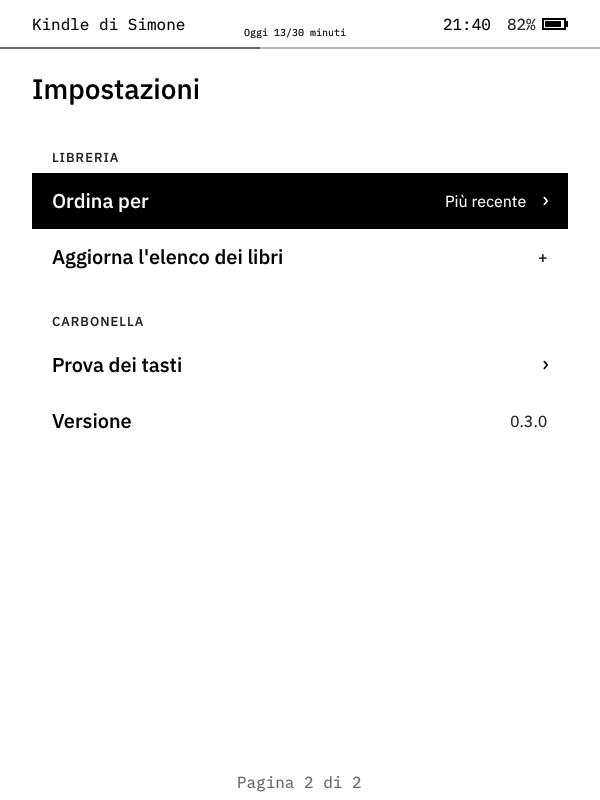
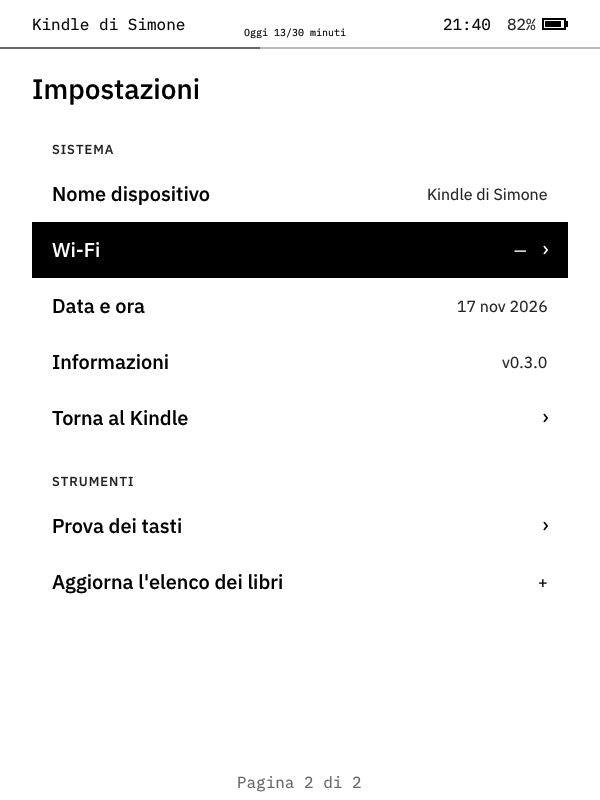
Speed up polylines, match settings page 2 to Figma (v0.3.1)
Claude-Session: https://claude.ai/code/session_017ad5J4fR8Z3br3R8tAxccF

diff --git a/src/app.c b/src/app.c
@@ -607,7 +607,7 @@ static void key_test(App *a);
 
 enum {
     S_GOAL, S_YEAR, S_FONT, S_SIZE, S_LINE, S_MARGIN, S_FLASH, S_VIEW, /* page 1, as in Figma */
-    S_SORT, S_RESCAN, S_KEYS, S_VERSION,                               /* page 2 */
+    S_NAME, S_WIFI, S_DATE, S_INFO, S_KINDLE, S_KEYS, S_RESCAN,        /* page 2 */
     S_N
 };
 
@@ -617,21 +617,48 @@ typedef struct {
 } SetItem;
 
 /* "04 · Impostazioni": header, title, groups (label + rows of 56 px), "Pagina 1 di 2" at the bottom.
- * Rows from the frame: LETTURA label at 149.6, rows from 173; ASPETTO label at 313, rows from 337. */
+ * Positions from the two frames: page 1 LETTURA label at 150, rows from 174; ASPETTO label at 314,
+ * rows from 338. Page 2 SISTEMA label at 142, rows from 166; then our own group STRUMENTI. */
 static const SetItem SET[S_N] = {
-    { 0, 150, 173, "Lettura", "Obiettivo giornaliero" },
-    { 0, 0, 229, NULL, "Libri da leggere quest'anno" },
-    { 0, 313, 337, "Aspetto", "Carattere" },
-    { 0, 0, 393, NULL, "Dimensione" },
-    { 0, 0, 449, NULL, "Interlinea" },
-    { 0, 0, 505, NULL, "Margini" },
-    { 0, 0, 561, NULL, "Refresh completo" },
-    { 0, 0, 617, NULL, "Visualizzazione" },
-    { 1, 150, 173, "Libreria", "Ordina per" },
-    { 1, 0, 229, NULL, "Aggiorna l'elenco dei libri" },
-    { 1, 313, 337, "Carbonella", "Prova dei tasti" },
-    { 1, 0, 393, NULL, "Versione" },
+    { 0, 150, 174, "Lettura", "Obiettivo giornaliero" },
+    { 0, 0, 230, NULL, "Libri da leggere quest'anno" },
+    { 0, 314, 338, "Aspetto", "Carattere" },
+    { 0, 0, 394, NULL, "Dimensione" },
+    { 0, 0, 450, NULL, "Interlinea" },
+    { 0, 0, 506, NULL, "Margini" },
+    { 0, 0, 562, NULL, "Refresh completo" },
+    { 0, 0, 618, NULL, "Visualizzazione" },
+    { 1, 142, 166, "Sistema", "Nome dispositivo" },
+    { 1, 0, 222, NULL, "Wi-Fi" },
+    { 1, 0, 278, NULL, "Data e ora" },
+    { 1, 0, 334, NULL, "Informazioni" },
+    { 1, 0, 390, NULL, "Torna al Kindle" },
+    { 1, 474, 498, "Strumenti", "Prova dei tasti" },
+    { 1, 0, 554, NULL, "Aggiorna l'elenco dei libri" },
 };
+
+/* Wi-Fi of the Kindle: -1 unknown (simulator), 0 off, 1 on. */
+static int wifi_state(void)
+{
+    if (g_sim)
+        return -1;
+    FILE *f = popen("lipc-get-prop com.lab126.cmd wirelessEnable 2>/dev/null", "r");
+    if (!f)
+        return -1;
+    int v = -1;
+    if (fscanf(f, "%d", &v) != 1)
+        v = -1;
+    pclose(f);
+    return v;
+}
+
+static void wifi_set(int on)
+{
+    if (g_sim)
+        return;
+    int r = system(on ? "lipc-set-prop com.lab126.cmd wirelessEnable 1" : "lipc-set-prop com.lab126.cmd wirelessEnable 0");
+    log_msg("wi-fi %s (%d)", on ? "on" : "off", r);
+}
 
 static void set_value(App *a, int i, char *out, size_t n)
 {
@@ -650,18 +677,33 @@ static void set_value(App *a, int i, char *out, size_t n)
             snprintf(out, n, "ogni %d pagine", a->flash_every);
         break;
     case S_VIEW: snprintf(out, n, "Copertine"); break;
-    case S_SORT: snprintf(out, n, "%s", SORTS[a->sort]); break;
-    case S_VERSION: snprintf(out, n, "%s", CARBONELLA_VERSION); break;
+    case S_NAME: snprintf(out, n, "%s", a->name); break;
+    case S_WIFI: {
+        int w = wifi_state();
+        snprintf(out, n, "%s", w < 0 ? "—" : w ? "Acceso" : "Spento");
+        break;
+    }
+    case S_DATE: {
+        static const char *MESI[] = { "gen", "feb", "mar", "apr", "mag", "giu",
+                                      "lug", "ago", "set", "ott", "nov", "dic" };
+        time_t now = time(NULL);
+        struct tm tm;
+        localtime_r(&now, &tm);
+        snprintf(out, n, "%d %s %d", tm.tm_mday, MESI[tm.tm_mon], tm.tm_year + 1900);
+        break;
+    }
+    case S_INFO: snprintf(out, n, "v%s", CARBONELLA_VERSION); break;
     default: break;
     }
 }
 
 static void set_row(App *a, int i, int focus)
 {
-    char v[48];
+    char v[160];
     set_value(a, i, v, sizeof v);
     ui_menu_row(&a->cv, 32, SET[i].row_top, a->W - 64, SET[i].label, v,
-                i == S_RESCAN ? ICON_PLUS : i == S_VERSION ? ICON_NONE : ICON_ARROW, focus);
+                i == S_RESCAN ? ICON_PLUS : i == S_NAME || i == S_DATE || i == S_INFO ? ICON_NONE : ICON_ARROW,
+                focus);
 }
 
 /* Change a setting by one step (dir +1 / -1). Returns 1 if the reading page must be laid out again. */
@@ -674,7 +716,12 @@ static int set_change(App *a, int i, int dir)
     case S_LINE: a->lp.line_pct = step(LINES, NLINES, a->lp.line_pct, dir); break;
     case S_MARGIN: a->lp.margin_x = step(MARGINS, 3, a->lp.margin_x, dir); break;
     case S_FLASH: a->flash_every = step(FLASHES, NFLASHES, a->flash_every, dir); break;
-    case S_SORT: a->sort = (a->sort + (dir > 0 ? 1 : 2)) % 3; break;
+    case S_WIFI: {
+        int w = wifi_state();
+        if (w >= 0)
+            wifi_set(!w);
+        return 0;
+    }
     default: return 0; /* Carattere and Visualizzazione have one choice for now */
     }
     save_prefs(a);
@@ -721,10 +768,14 @@ static int settings_run(App *a)
         } else if (k == K_DOWN) {
             sel = (sel + 1) % S_N;
         } else if (k == K_PREV) {
-            sel = page == 0 ? S_SORT : 0;
+            sel = page == 0 ? S_NAME : 0;
         } else if (k == K_NEXT) {
-            sel = page == 0 ? S_SORT : 0;
+            sel = page == 0 ? S_NAME : 0;
         } else if (k == K_SELECT || k == K_RIGHT || k == K_LEFT) {
+            if (sel == S_KINDLE && k == K_SELECT) {
+                result = 2;
+                break;
+            }
             if (sel == S_RESCAN && k == K_SELECT) {
                 result = 1;
                 break;
@@ -1101,7 +1152,7 @@ static void draw_cell(App *a, const Cell *c, float x, float y, int focus)
             snprintf(left, sizeof left, badge ? "NUOVO" : "Nuovo");
         }
         int p = pages_of(a, e);
-        snprintf(right, sizeof right, "%d pagine", p);
+        snprintf(right, sizeof right, p == 1 ? "%d pagina" : "%d pagine", p);
         info_row(a, x, y, left, p > 0 ? right : NULL, badge);
     } else {
         char cnt[16];

diff --git a/src/canvas.c b/src/canvas.c
@@ -161,19 +161,22 @@ static int in_polygon(const void *p, float x, float y)
     return in;
 }
 
-static int in_polyline(const void *p, float x, float y)
+static int in_segment(const Poly *k, int i, float x, float y)
+{
+    float ax = k->xy[2 * i], ay = k->xy[2 * i + 1], bx = k->xy[2 * i + 2], by = k->xy[2 * i + 3];
+    float dx = bx - ax, dy = by - ay, l2 = dx * dx + dy * dy;
+    float t = l2 > 0 ? ((x - ax) * dx + (y - ay) * dy) / l2 : 0;
+    t = t < 0 ? 0 : t > 1 ? 1 : t;
+    float ex = ax + t * dx - x, ey = ay + t * dy - y;
+    return ex * ex + ey * ey <= k->t2;
+}
+
+/* One segment of a polyline (k->n = index of the segment); a point shared with the previous
+ * segment belongs to that one, so the joints are not painted twice. */
+static int in_polyline_seg(const void *p, float x, float y)
 {
     const Poly *k = p;
-    for (int i = 0; i + 1 < k->n; i++) {
-        float ax = k->xy[2 * i], ay = k->xy[2 * i + 1], bx = k->xy[2 * i + 2], by = k->xy[2 * i + 3];
-        float dx = bx - ax, dy = by - ay, l2 = dx * dx + dy * dy;
-        float t = l2 > 0 ? ((x - ax) * dx + (y - ay) * dy) / l2 : 0;
-        t = t < 0 ? 0 : t > 1 ? 1 : t;
-        float ex = ax + t * dx - x, ey = ay + t * dy - y;
-        if (ex * ex + ey * ey <= k->t2)
-            return 1;
-    }
-    return 0;
+    return in_segment(k, k->n, x, y) && !(k->n > 0 && in_segment(k, k->n - 1, x, y));
 }
 
 static void bbox(const float *xy, int n, float pad, float *b)
@@ -201,12 +204,16 @@ void canvas_polygon(Canvas *c, const float *xy, int n, uint8_t ink)
     fill_inside(c, b[0], b[1], b[2], b[3], in_polygon, &k, ink);
 }
 
+/* Segment by segment, each in its own small box: testing every segment for every pixel of the
+ * whole box was very slow on the Kindle (7 s for a Home with the "Zigzag" cover). */
 void canvas_polyline(Canvas *c, const float *xy, int n, float thick, uint8_t ink)
 {
-    float b[4];
-    Poly k = { xy, n, thick * thick / 4 };
-    bbox(xy, n, thick / 2, b);
-    fill_inside(c, b[0], b[1], b[2], b[3], in_polyline, &k, ink);
+    for (int i = 0; i + 1 < n; i++) {
+        float b[4];
+        Poly k = { xy, i, thick * thick / 4 };
+        bbox(xy + 2 * i, 2, thick / 2, b);
+        fill_inside(c, b[0], b[1], b[2], b[3], in_polyline_seg, &k, ink);
+    }
 }
 
 void canvas_rectf(Canvas *c, float x, float y, float w, float h, uint8_t ink)

diff --git a/src/carbonella.h b/src/carbonella.h
@@ -18,7 +18,7 @@
 #include <stddef.h>
 #include <stdint.h>
 
-#define CARBONELLA_VERSION "0.3.0"
+#define CARBONELLA_VERSION "0.3.1"
 
 /* ------------------------------------------------------------------ util */
 

diff --git a/diario/2026-11-17-v03-appunti-di-simone.md b/diario/2026-11-17-v03-appunti-di-simone.md
@@ -15,7 +15,7 @@ così le schermate si possono guardare e ritoccare anche lì.
 
 ## Tempo
 
-00:36–00:50 UTC del 17/11 (circa 15 minuti, Claude).
+00:36–01:00 UTC del 17/11 (circa 25 minuti, Claude), compresa la v0.3.1 e le schermate in Figma.
 
 ## Cosa è cambiato
 
@@ -23,7 +23,7 @@ così le schermate si possono guardare e ritoccare anche lì.
 |---------|------------------------|
 | 1. Sfondo bianco | Il grigio "Carta" (#EEE) ora è bianco puro (`G_CARTA 0` in `carbonella.h`): vale per Home, lettura, menu, Impostazioni e anche per le copertine chiare. La vecchia regola "mai bianco puro" non vale più. |
 | 2. Il testo spariva aprendo il menu | Il menu ridisegna la pagina sotto al pannello invece di cancellarla; in alto resta il titolo del libro. Se cambi dimensione del carattere, la pagina sotto si aggiorna subito. |
-| 3. Pagina Impostazioni | Nuova schermata come il frame "04 · Impostazioni": titolo, gruppi LETTURA e ASPETTO con le stesse 8 voci e le stesse posizioni (etichetta a 150, righe da 173 e da 337), "Pagina 1 di 2" in basso. La pagina 2 raccoglie Ordina per, Aggiorna l'elenco, Prova dei tasti e Versione. Si apre dal menu della Home e da quello di lettura. |
+| 3. Pagina Impostazioni | Nuova schermata come il frame "04 · Impostazioni": titolo, gruppi LETTURA e ASPETTO con le stesse 8 voci e le stesse posizioni (etichetta a 150, righe da 173 e da 337), "Pagina 1 di 2" in basso. La pagina 2 è come il secondo frame: gruppo SISTEMA con Nome dispositivo, Wi-Fi (acceso/spento, si cambia col tasto centrale), Data e ora, Informazioni (versione) e Torna al Kindle; sotto, un gruppo STRUMENTI nostro con Prova dei tasti e Aggiorna l'elenco dei libri. Si apre dal menu della Home e da quello di lettura. |
 
 Note sulle voci:
 
@@ -49,6 +49,23 @@ Note sulle voci:
   dalla Home.
 - AddressSanitizer + UBSan sullo stesso giro: nessun errore (solo la memoria non liberata all'uscita, come prima).
 - Compilazione ARM: binario di 238 KB.
+
+## v0.3.1: la Home lenta
+
+Installata la v0.3.0, il log del Kindle mostrava circa **7 secondi** tra la lettura della libreria e il
+primo disegno (con la v0.2 era un secondo). Ricreata qui la stessa libreria (i due Mr Gwyn, "I miei
+ritagli.txt", "You are Jailbroken.txt") ed eseguito il binario ARM in emulazione: 9 secondi anche qui.
+Il profilo ha indicato le linee spezzate delle copertine: "I miei ritagli" ha lo stile **Zigzag**
+(5 linee da 40 tratti) e per ogni punto del riquadro si provavano tutti i 40 tratti, con i calcoli in
+virgola mobile emulati via software. Ora ogni tratto si disegna nel suo piccolo riquadro: in emulazione
+da 9 s a 0,7 s, immagine identica. (La v0.2 aveva lo stesso difetto: al primo avvio la prima copertina
+era un'altra.)
+
+## Figma
+
+Le schermate della v0.3 sono nel file Figma, pagina "Carbonella", sezione **"v0.3.0 · sul Kindle
+(17 nov 2026)"**, fatte con i componenti del file (Voce menu, Pannello menu, Header, Copertina…), più
+una nota su cosa modificare. Lo stile colore **E-ink/Carta** ora è bianco puro, come nel codice.
 
 ## Prossimi passi
 

diff --git a/CHANGELOG.md b/CHANGELOG.md
@@ -2,6 +2,13 @@
 
 Le versioni seguono lo schema `MAGGIORE.MINORE.CORREZIONE`. Finché siamo a `0.x` tutto può cambiare.
 
+## v0.3.1 · 2026-11-17
+
+- **La Home compare subito**: con alcune copertine (lo stile "Zigzag") il primo disegno della Home
+  richiedeva circa 7 secondi sul Kindle. Le linee a zigzag ora si disegnano un tratto alla volta:
+  stesso risultato, circa 12 volte più veloce.
+- Pagina 2 delle Impostazioni come il frame Figma (gruppo Sistema) e "1 pagina" al singolare.
+
 ## v0.3.0 · 2026-11-17 · "Appunti di Simone"
 
 - **Sfondo bianco puro** ovunque (prima era il grigio "Carta" #EEE): sull'e-ink il bianco appare
@@ -12,7 +19,8 @@ Le versioni seguono lo schema `MAGGIORE.MINORE.CORREZIONE`. Finché siamo a `0.x
   - *Lettura*: obiettivo giornaliero, libri da leggere quest'anno;
   - *Aspetto*: carattere (Literata), dimensione, interlinea (1,3–1,8), margini (stretti, medi, larghi),
     refresh completo (ogni 1–20 pagine), visualizzazione (copertine);
-  - pagina 2: ordina per, aggiorna l'elenco dei libri, prova dei tasti, versione.
+  - pagina 2 (*Sistema*): nome dispositivo, Wi-Fi acceso/spento, data e ora, informazioni, torna al Kindle;
+    *Strumenti*: prova dei tasti, aggiorna l'elenco dei libri.
   Su/giù per scegliere, centro o destra per il valore successivo, sinistra per il precedente,
   Indietro per uscire. Tutto viene salvato in `dati/preferenze.conf`.
 - Il menu della Home ha la voce "Impostazioni"; le altre voci restano.
